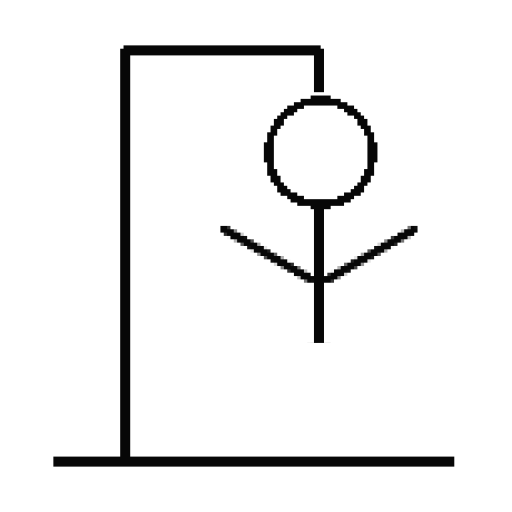
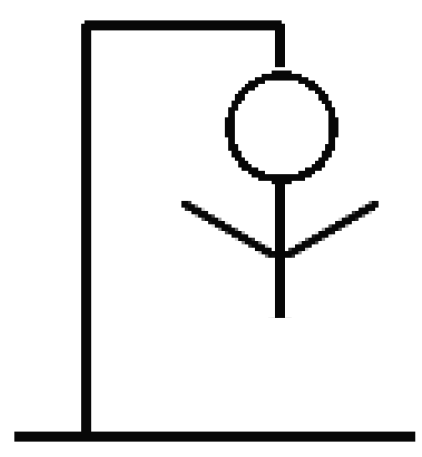
modifique tamaño de imagenes del ahorcado para que quepan mejor en pantalla.

Changed region(s): [[0.0308, 0.0306, 0.9858, 0.9803]]

diff --git a/juegos/ahorcado.html b/juegos/ahorcado.html
@@ -6,35 +6,45 @@
     <meta name="viewport" content="width=device-width, initial-scale=1.0">
     <title>Juego del Ahorcado</title>
     <link rel="stylesheet" href="../css/ahorcado.css">
-    <link rel="stylesheet" href="../css/styles.css">
+
 </head>
 
 <body>
-    <h1>Juego de Ahorcado</h1>
-    <div id="hangman-container">
-        <img id="hangman" src="" alt="Ahorcado">
-    </div>
-    <div id="word-container">
-        <!-- Aquí se mostrará la palabra oculta -->
-    </div>
-    <div id="guesses-container">
-        <div id="guesses">
-            <!-- Aquí se mostrarán las letras adivinadas -->
+    <header>
+        <h1>Juego de Ahorcado</h1>
+        <h2>PARA DIVERTIRSE JUGANDO</h2>
+    </header>
+    <main class="containter">
+        
+        <div id="word-container">
+            <!-- Aquí se mostrará la palabra oculta -->
         </div>
-        <div id="attempts">
-            <!-- Aquí se mostrará el número de intentos restantes -->
+        <div id="guesses-container">
+            <div id="guesses">
+                <!-- Aquí se mostrarán las letras adivinadas -->
+            </div>
+            <div id="attempts">
+                <!-- Aquí se mostrará el número de intentos restantes -->
+            </div>
         </div>
-    </div>
-    <div id="keyboard">
-        <!-- Aquí se mostrará el teclado virtual -->
-    </div>
-    <div id="victory-message" class="hidden">
-        <p id="victory-text"></p>
-    </div>
-    <div id="loss-message" class="hidden">
-        <p id="loss-text"></p>
-    </div>
-    <button id="restart-button" class="hidden" onclick="restartGame()">Reiniciar Juego</button>
+        <div id="hangman-container">
+            <img id="hangman" src="" alt="Ahorcado">
+        </div>
+
+        <div id="keyboard">
+            <!-- Aquí se mostrará el teclado virtual -->
+        </div>
+        <div id="victory-message" class="hidden">
+            <p id="victory-text"></p>
+        </div>
+        <div id="loss-message" class="hidden">
+            <p id="loss-text"></p>
+        </div>
+        <button id="restart-button" class="hidden" onclick="restartGame()">Reiniciar Juego</button>
+    </main>
+    <footer>
+        <p>&copy; 2023 Página de Entretenimiento</p>
+    </footer>
     <script src="../js/ahorcado.js"></script>
 </body>
 

diff --git a/css/ahorcado.css b/css/ahorcado.css
@@ -7,7 +7,7 @@ body {
 }
 
 .container {
-  max-width: 800px;
+  max-width: 100%;
   margin: 0 auto;
   padding: 20px;
 }
@@ -112,4 +112,95 @@ body {
 #hangman-container {
   display: flex;
   justify-content: center;
+}
+
+/* Estilos para la página */
+body {
+  background: linear-gradient(135deg, #4CAF50, #388E3C);
+  font-family: Arial, sans-serif;
+  margin: 0;
+  padding: 0;
+  display: flex;
+  flex-direction: column;
+  min-height: 100vh;
+  text-shadow: 2px 2px 4px rgba(0, 0, 0, 1);
+}
+
+
+header {
+  background-image: url('../img/header.jpg');
+  background-size: cover;
+  background-position: center;
+  color: white;
+  text-align: center;
+  padding: 10px;
+  width: 100%;
+}
+
+main {
+  box-sizing: border-box;
+ 
+  /* El main ocupa todo el espacio disponible */
+}
+
+.inicio {
+  font-size: 3em;
+}
+
+
+
+footer {
+  background-image: url('../img/header.jpg');
+  background-size: cover;
+  color: #fff;
+  text-align: center;
+  padding: 10px;
+  width: 100%;
+  /* Fijar el footer en la parte inferior de la ventana */
+  position: fixed;
+  bottom: 0;
+}
+
+
+/* Estilos para hacer la página responsiva */
+@media screen and (max-width: 768px) {
+  main {
+      flex-direction: column;
+      /* Cambiar a diseño de columna en dispositivos pequeños */
+  }
+
+  section {
+      flex: 1;
+      /* La sección ocupará todo el espacio disponible en dispositivos pequeños */
+  }
+
+  aside {
+      flex: 1;
+      /* El aside ocupará todo el espacio disponible en dispositivos pequeños */
+  }
+}
+
+/* Estilos para los botones de juego */
+.juego-buttons {
+  display: flex;
+  flex-direction: column;
+  align-items: left;
+  margin-top: 20px;
+}
+
+/* Estilos para los botones "Iniciar Tateti" e "Iniciar Ahorcado" */
+.juego-button {
+  padding: 25px 30px; /* Aumentamos el padding para hacer los botones más grandes */
+  margin: 20px 0;
+  font-size: 2em; /* Aumentamos el tamaño de la letra */
+  background-color: #3498db; /* Cambiamos el color a celeste */
+  color: white;
+  border: none;
+  cursor: pointer;
+  border-radius: 5px;
+  transition: background-color 0.3s ease;
+}
+
+.juego-button:hover {
+  background-color: #2980b9; /* Color de fondo al pasar el cursor */
 }

diff --git a/js/script.js b/js/script.js
@@ -22,10 +22,10 @@ document.addEventListener('DOMContentLoaded', function () {
                 const juego = boton.getAttribute('data-juego');
                 if (juego === 'tateti') {
                     // Abre una nueva ventana con Tateti.html
-                    window.open('juegos/tateti.html', '_blank');
+                    window.open('./juegos/tateti.html', '_blank');
                 } else if (juego === 'ahorcado') {
                     // Abre una nueva ventana con Ahorcado.html
-                    window.open('juegos/ahorcado.html', '_blank');
+                    window.open('./juegos/ahorcado.html', '_blank');
                 }
             });
         });
@@ -62,8 +62,8 @@ document.addEventListener('DOMContentLoaded', function () {
         contenido.style.display = 'block';
         juegoContainer.style.display = 'none';
         contenido.innerHTML = `
-            <h2 id="acercade">Acerca de</h2>
-            <p>Esta página web trata sobre...</p>
+            <h2 id="acercade">Propósito de La Página</h2>
+            <p>Página realizada como exámen para la materia Seminario de Programación.</p>
         `;
     }
 

diff --git a/js/ahorcado.js b/js/ahorcado.js
@@ -28,7 +28,7 @@ function updateUI() {
     const hangmanImg = document.getElementById("hangman");
 
     // Actualizar la palabra oculta
-    let displayWord = "";
+    let displayWord = "Palabra a adivinar:" + "";
     for (const letter of word) {
         if (guessedLetters.includes(letter.toLowerCase()) || !letter.match(/[a-zA-Z]/)) {
             displayWord += letter;

diff --git a/css/styles.css b/css/styles.css
@@ -21,6 +21,10 @@ header {
     width: 100%;
 }
 
+h2 {
+    font-size: 2em;
+
+}
 nav {
     background-image: url('../img/header.jpg');
     background-size: cover;
@@ -53,7 +57,7 @@ aside {
     font-size: 50px;
     text-align: center;
     padding: 20px;
-    flex: 2;
+    flex: 5;
     /* El aside ocupa 2/3 del espacio disponible */
 }
 
